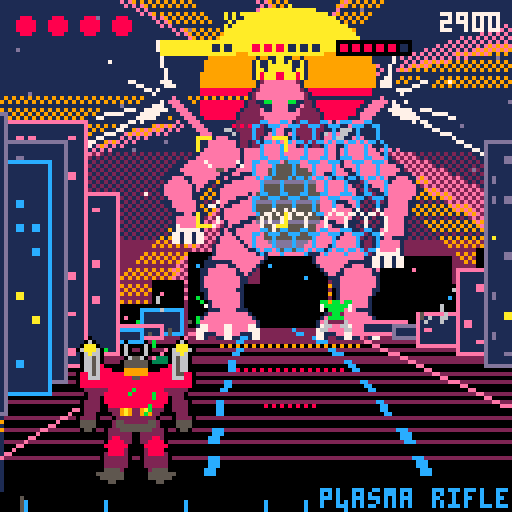
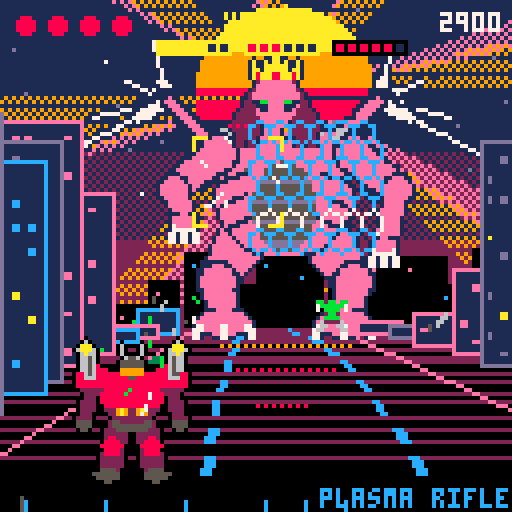
crestbeat-synth: the giants' spit is a twister, a swirling pillar of the giant's element (fire, lightning, acid) far taller than the mech, travelling down the street for its two beats; the glob, red bar and countdown are gone, as the user missed the glob flying at the mech. Same timing and damage. C

diff --git a/proj/crestbeat/gen_cart.py b/proj/crestbeat/gen_cart.py
@@ -332,10 +332,10 @@ BUILDS = {
                  "draw_payout", "draw_hud"],
     "play.lua": ["draw_title", "draw_payout", "update_payout"],
     "boot.lua": ["hit_spot", "ring_lamp", "lamps_lit", "update_titan", "spit", "land_spit", "open_spot",
-                 "draw_hazards", "draw_aim", "draw_plan", "chevron"],
+                 "draw_aim", "draw_plan", "chevron"],
     "capture_play.lua": ["draw_plan", "chevron", "sync_clock", "draw_title", "draw_payout", "update_payout"],
     "capture_menus.lua": ["draw_plan", "chevron", "sync_clock", "hit_spot", "ring_lamp", "lamps_lit",
-                          "update_titan", "spit", "land_spit", "open_spot", "draw_hazards", "draw_aim"],
+                          "update_titan", "spit", "land_spit", "open_spot", "draw_aim"],
 }
 
 

diff --git a/proj/crestbeat/notes/aliens.md b/proj/crestbeat/notes/aliens.md
@@ -14,8 +14,8 @@ A killed alien becomes a body in `fallen` that tips over backwards like a shooti
 Keep: the user asked for gallery knockdowns that clack.
 
 **aliens.lua:115** `function draw_aliens(behind)`
-`draw_aliens(behind)` is called twice: for aliens still behind the crest (clipped at the crest, so they rise over it, in front of a titan), and for the rest. `kind_colours` swaps the sprite's green for the kind's colours. The bob is a smooth arc, `(cos(hop)-1)`, low on the beat and high between. The second call also draws each spit glob (`draw_glob`) in depth order among the aliens, before the first alien nearer than it.
-Keep: the user saw the spit sorted wrongly: drawn before every alien, a farther alien covered a nearer glob.
+`draw_aliens(behind)` is called twice: for aliens still behind the crest (clipped at the crest, so they rise over it, in front of a titan), and for the rest. `kind_colours` swaps the sprite's green for the kind's colours. The bob is a smooth arc, `(cos(hop)-1)`, low on the beat and high between. The second call also draws each spit pillar (`draw_pillar`) in depth order among the aliens, before the first alien nearer than it.
+Keep: the user saw the spit sorted wrongly: drawn before every alien, a farther alien covered a nearer glob (now a pillar).
 
 **aliens.lua:88** `function swarm_sprite(size,sizes)`
 The largest drawn size in a list that fits the size wanted: the swarm's ten (swarm_sprites, 8 to 32px) or the civilian's four (civilian_sprites, 8 to 24px), from art.py. Everything is drawn 1:1 with it, never scaled; a kind with `sprite` set uses the civilian list and bobs a pixel to run.

diff --git a/proj/crestbeat/DESIGN.md b/proj/crestbeat/DESIGN.md
@@ -269,9 +269,12 @@ a black crack with a flickering red edge, smoke and embers rising from it,
 and on a side street that arm hangs limp (the user asked). The bell's lamps
 are the bars' frames, yellow when lit: the old round lamps on the chest and
 the torso's dark scale dots read as nipples, and are gone. Spit is the user's "get out of this lane by beat
-x": it goes down the street the plan is in, telegraphed by a flashing red
-bar with a beat countdown and a glob travelling down, and lands two beats
-later, by when the plan has moved on; it hurts the robot if it is still
+x": it goes down the street the plan is in as a twister, a swirling pillar
+of the giant's element (the titan fire, the behemoth lightning, the queen
+acid; `pillar_hues`) that stands far taller than the mech, so it can be
+seen past it (the user missed the old glob flying at the mech, and its red
+bar and countdown are gone), travelling from the crest for two beats and
+landing then, by when the plan has moved on; it hurts the robot if it is still
 there. And the giant spits at anyone idling: a robot that has stood in one
 street for `idle_beats` (4) is spat at where it stands, so no one can sit
 in a street waiting for its hot spot to reopen (the user: "spit should force

diff --git a/proj/crestbeat/notes/titan.md b/proj/crestbeat/notes/titan.md
@@ -35,3 +35,7 @@ Keep: the user asked for the giant to follow witchcap's 2.5D multi-sprite hut, a
 **titan.lua:2** `titan={rise=0,spots={},colour=spec.colour,crown=spec.crown,bars=spec.bars}`
 `crown` (the queen's stage row) gives a giant the queen's crowned head (88,96) and bone blade-wings (the finger bones drawn long and white, no membrane).
 Keep: the user asked for the hive queen to have a queen-of-the-swarm look with a crown; it is our own design, not a copy of any character.
+
+**titan.lua:230** `function draw_pillar(hazard)`
+The spit as a twister: thirty bands up from where it stands on the road, widening upward, swaying with `clock`, its four colours (`pillar_hues` by giant colour: fire, lightning, acid) scrolling up through the bands, a white glint spiralling round. About ninety pixels tall near the mech, so it shows above it. `land_spit` bursts in its first colour.
+Keep: the user asked for a tornado pillar of fire, lightning or acid that can be seen past the mech; they missed the old glob flying at it.
